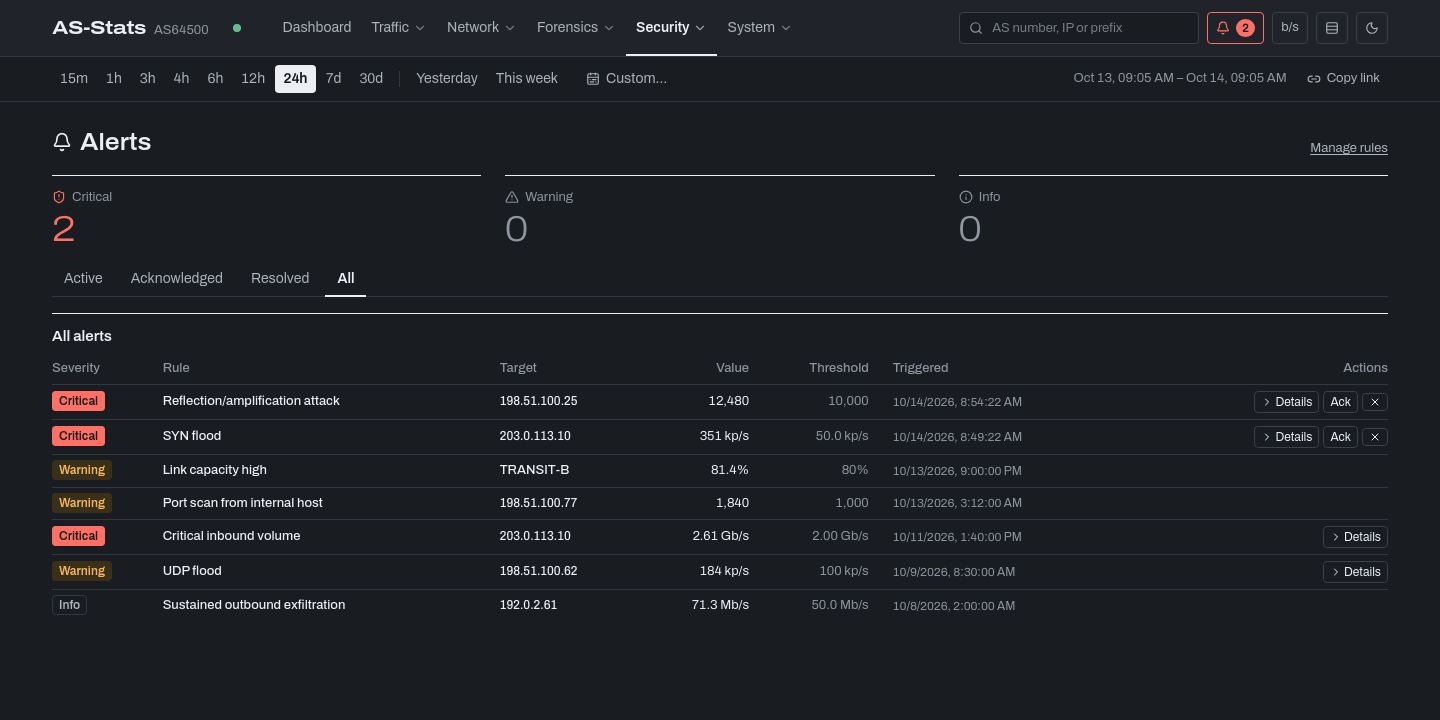
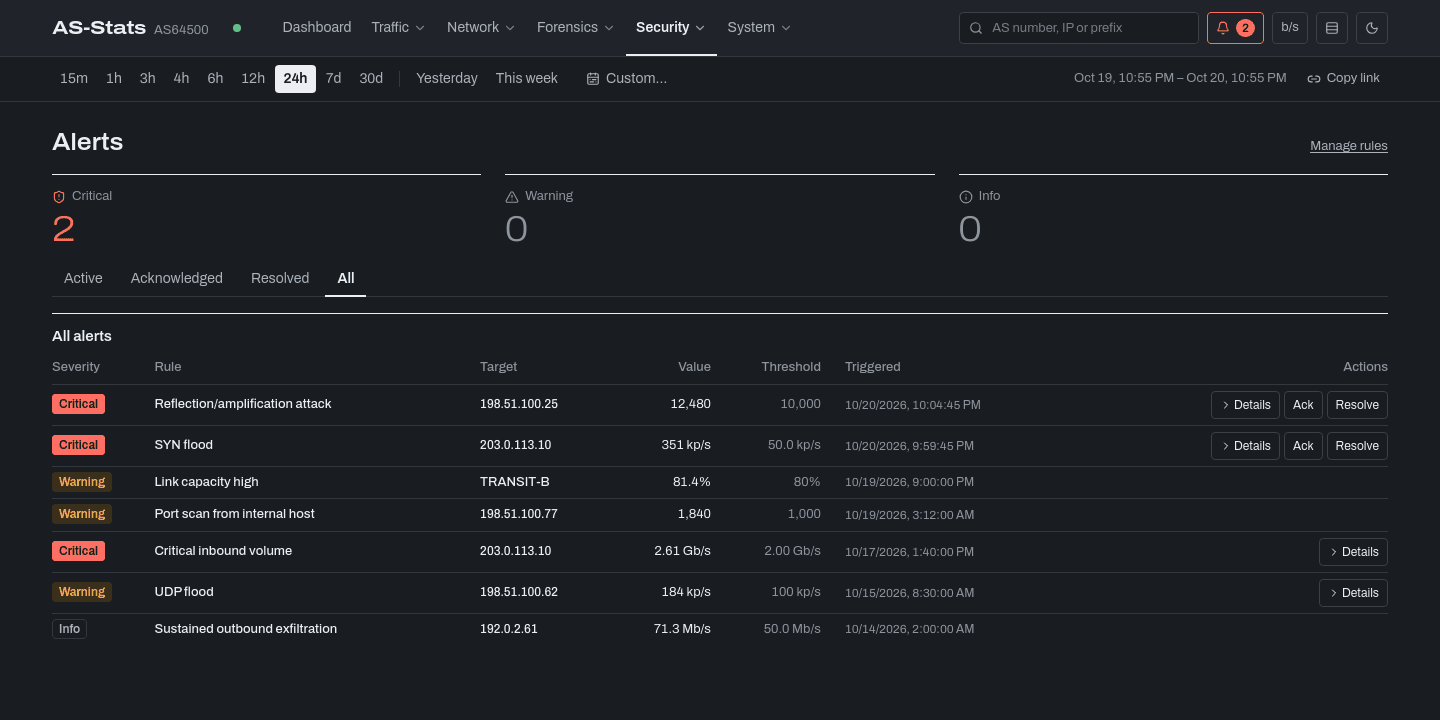
docs: impeccable design review report; refresh README screenshots
docs/design-review/impeccable-2026-10.md records the impeccable 4.7.0
pass over the web UI: the method (demo stack 3.4.0, detector on rendered
pages in light and dark at 1440 and 390 px, 98 findings before, 0 after),
the audit and critique findings ranked by severity with what was done
about each, what was deliberately left alone, where impeccable and the
Ledger direction disagree, and proposed additions to the Ledger guide.

The README screenshots are regenerated from the same invented demo data
with scripts/demo/shot.js (segmented controls, alert actions, chart
labels, link detail changed visibly) and compressed with pngquant and
oxipng.

Claude-Session: https://claude.ai/code/session_01JMwSDERtkGKrYAcoAfT5Bp

diff --git a/docs/design-review/impeccable-2026-10.md b/docs/design-review/impeccable-2026-10.md
@@ -1,0 +1,223 @@
+# Design review: impeccable 4.7.0, October 2026
+
+A quality pass on the web UI with the [impeccable](https://github.com/pbakaus/impeccable)
+toolkit (v4.7.0). We followed its `audit`, `critique` and `polish` procedures over
+the whole product, plus `harden` and `adapt` where the findings called for them.
+The baseline is release 3.4.0.
+
+The "Ledger" direction was the brief (Archivo, ink on grey, one cobalt accent,
+rules instead of boxes, colour only for abnormal states). Impeccable was used to
+check quality, accessibility and consistency within that direction, not to
+change the aesthetic. Section 6 lists where impeccable's taste and Ledger
+disagree and what we did.
+
+## 1. Method
+
+- **Data.** The demo stack in `scripts/demo/` ran with tag `3.4.0`, using its
+  invented data (AS64500, documentation prefixes). For the "after" state, the
+  branch's frontend was built in `node:22-alpine` and served by `nginx:1.27-alpine`
+  with `frontend/nginx.conf`, against the same demo API.
+- **Pages.** All 21 routes were captured as full-page screenshots in light and
+  dark, at 1440 px and 390 px (84 captures before, 84 after). A small DOM audit
+  ran on each capture: text under 12 px, unnamed controls, targets under 24 px,
+  heading jumps, horizontal overflow, console errors.
+- **Detector.** `npx impeccable@4.7.0 detect --json` ran in
+  `zenika/alpine-chrome:with-puppeteer` with `DO_NOT_TRACK=1` and
+  `IMPECCABLE_NO_TELEMETRY=1`. Chromium was wrapped to add `--no-sandbox`, which
+  the container needs.
+  - Light passes used URL scans with `--viewport 1440x1000` and `390x844`.
+  - Dark passes opened each page in a Chromium we control, with the theme set
+    before first render, then attached the detector with `--cdp`. The detector
+    itself has no colour-scheme option.
+  - A static scan of `frontend/src` had already returned nothing; the useful
+    rules only run on rendered pages.
+- **What was not run.** `impeccable install`, the skill launcher (`context`,
+  `critique-storage`) and the live overlay were not run. Nothing under
+  `.impeccable/` was written.
+- **Critique isolation.** Assessment A (design review) ran in an isolated
+  sub-agent that never saw detector output. Assessment B (detector and browser
+  evidence) ran in the parent context, not in a second sub-agent, so the run is
+  partly degraded by impeccable's own rules. The critique's closing questions
+  were skipped: this was an autonomous run with the full scope delegated.
+
+## 2. Detector results
+
+### Counts
+
+| Pass | Before (3.4.0) | After |
+|---|---:|---:|
+| Light, 1440 px | 24 | 0 |
+| Light, 390 px | 29 | 0 |
+| Dark, 1440 px | 20 | 0 |
+| Dark, 390 px | 25 | 0 |
+| **Total** | **98** | **0** |
+
+### By rule
+
+| Rule | Severity | Pages (before) | Count before | After | What we did |
+|---|---|---|---:|---:|---|
+| `skipped-heading` | warning | 19 of 21: every page but Home and Live threats (h1 then h3) | 76 (19 × 4 passes) | 0 | Fixed. `CardTitle` renders an `h2` (`as="h3"` when nested). The stacked-chart titles on Links, AS detail and Link detail became `h2`. |
+| `low-contrast` | warning | Changes: the "(+12 %)" note, `opacity-70`, 3.5:1 | 2 (light passes) | 0 | Fixed: tertiary ink, no opacity. |
+| `low-contrast` | advisory | AS detail, Link detail ("Compare previous"); Flow search (Period buttons): tertiary ink on `bg-muted/50`, 4.4:1 | 6 (light passes) | 0 | Fixed. The shared segmented control and the toggle now use secondary ink. |
+| `line-length` | warning | Live threats intro, about 103 characters per line | 2 (1440 passes) | 0 | Fixed: capped at 62ch. |
+| `straggler` | advisory | 390 px: Home, Capacity, Link detail captions; Live threats (3) | 12 (390 passes) | 0 | Fixed globally: `p { text-wrap: pretty }`, headings `balance`. |
+
+## 3. Audit (technical) and critique (design)
+
+### Audit health score (impeccable `audit`)
+
+| # | Dimension | Before | After | Key finding |
+|---|---|---:|---:|---|
+| 1 | Accessibility | 2 | 3 | Sort headers not keyboard-reachable; `role="menu"` without arrow keys; h1→h3 everywhere; icon-only "×" Resolve; 3.5:1 text |
+| 2 | Performance | 3 | 3 | One 500 kB+ JS chunk (Vite warning); otherwise lean, no animation cost |
+| 3 | Theming | 3 | 4 | Tokens used throughout; a few opacity-dimmed texts and tinted-fill controls fell below AA |
+| 4 | Responsive | 2 | 3 | Alerts actions clipped at 390 px; active time range scrolled out of view; 18 px page overflow on Top protocols; values wrapped away from units |
+| 5 | Implementation integrity | 3 | 3 | Nine hand-rolled segmented controls in three styles; feature pages 404 when the flag is off |
+| | **Total** | **13/20** (acceptable) | **16/20** (good) | |
+
+### Critique (impeccable `critique`, Assessment A)
+
+**Specificity.** Assessment A called the design specific to this product and
+not generic. Home ("Right now", the mirrored one-scale chart, link rows with a
+peak tick and a 70 % line, "AS64500 is your network… so it is not ranked") and
+Live threats are product-specific. The secondary pages drift toward a generic
+analytics kit: Treemap and Donut, emoji flags, boxed chips, rainbow stacks.
+
+**Nielsen heuristics.** Assessment A scored 25/36 with #9 left n/a, because no
+error state was captured. The detector-side evidence did capture error states:
+BGP's three raw "Not Found" panels, and bare red text with no retry on the
+detail pages. On that evidence #9 scores 2, which makes the total 27/40,
+"acceptable".
+
+| # | Heuristic | Score | Key issue |
+|---|---|---:|---|
+| 1 | Visibility of system status | 3 | Active time range hidden at 390 px |
+| 2 | Match with the real world | 3 | Mixed units: "10000 Mbps", "10,000 Mbps", "10 Gb/s" |
+| 3 | User control and freedom | 3 | Unlabeled one-click Resolve "×" |
+| 4 | Consistency and standards | 2 | Three segmented-control styles; Title Case vs sentence case; icons in only three h1s; duplicate period pickers |
+| 5 | Error prevention | 2 | Icon-only destructive buttons. Link delete does ask for confirmation. |
+| 6 | Recognition rather than recall | 3 | No incident context on IP detail; ⌘K palette not advertised |
+| 7 | Flexibility and efficiency | 3 | No bulk ack/resolve |
+| 8 | Aesthetic and minimalist design | 3 | Home is exemplary; secondary pages are noisier |
+| 9 | Error recovery | 2 | Raw "Not Found" on BGP; bare error text on detail pages |
+| 10 | Help and documentation | 3 | Good inline captions; no glossary for "Class" |
+
+**Cognitive load.** 4 of 8 checks failed:
+
+- Minimal choices: the time bar has 11 options, Admin has 8 tabs, Top AS shows 3 control groups.
+- One thing at a time: two or three time selectors on detail pages.
+- Grouping: Links mixes viewing with configuration.
+- Working memory: link names differ between pages; categorical colours must be
+  matched against a legend.
+
+### Findings ranked by severity
+
+| Sev. | Finding | Source | Status |
+|---|---|---|---|
+| P1 | Sortable table headers were `<th onClick>` with no button or tabindex, so sorting was mouse-only (`DataTable`, used on about 15 tables). | audit | **Fixed**: a `<button>` in the `<th>`, with `aria-sort` kept. |
+| P1 | Alerts at 390 px clipped the Actions column ("Ac…"); on-call staff could not ack or resolve from a phone. | DOM audit + critique | **Fixed**: the target sits under the rule name; actions wrap. |
+| P1 | Resolve was an icon-only "×" in a 26×18 button, with `aria-label` on the svg, placed next to Ack. | critique | **Fixed**: a "Resolve" text button; row actions are 28 px. |
+| P1 | The incident context was lost on drill-down. IP detail for 203.0.113.10, a SYN-flood target, said nothing about the attack. | critique | **Fixed**: `HostAlerts` line on IP detail, in the dashboard's words and colours. Silent when the host is quiet. |
+| P1 | At 390 px the active time preset (24h by default) was scrolled out of view, with no scrollbar. | critique + screenshots | **Fixed**: the active preset is scrolled into view. The Custom popover no longer overflows a phone. |
+| P1 | Headings jumped from h1 to h3 on 19 pages. | detector | **Fixed** (see section 2). |
+| P1 | Feature-gated pages reached by URL with the flag off: `/bgp` showed three "Failed to load … Not Found" panels, a live "Block IP" button and six console 404s. | DOM audit (console) | **Fixed**: `FeatureGate` route wrapper explains which setting enables the page. |
+| P2 | Nav dropdowns used `role="menu"`/`menuitem` with no arrow-key support; focus could leave an open menu; Escape did not return focus. | audit | **Fixed**: disclosure pattern with `aria-controls`; closes on focus-out; Escape refocuses the trigger. |
+| P2 | Nine segmented controls in three styles. Four had no `aria-pressed`, so state was conveyed by colour only. Inactive labels were 4.4:1. View-toggle buttons were 28×16 on phones. | critique + detector | **Fixed**: one `Segmented` component (Ledger spec). |
+| P2 | p95 and capacity labels were drawn over the filled series and unreadable (AS detail, Link detail). The lowest y tick touched the first time label on every mirrored chart. | critique + screenshots | **Fixed**: ink labels with a background halo; 8 px between the plot and the time axis. |
+| P2 | AS, IP and Link detail showed "Loading…" as text and errors as bare red text, with no retry. | audit | **Fixed**: `PageSkeleton` and `ErrorDisplay` (names what failed, offers Retry). |
+| P2 | A second 1h/6h/24h/7d picker on AS and IP detail duplicated the global time bar; both wrote the same filter. | critique | **Fixed**: removed. |
+| P2 | Link detail coloured p95 utilisation amber or red with no word (Ledger: never colour alone). | screenshots | **Fixed**: `utilLevel` thresholds plus a "Watch"/"Incident" badge. |
+| P2 | Numbers wrapped away from their unit on phones ("2.26 / Gb/s"); Top protocols overflowed 390 px by 18 px (header row did not wrap). | DOM audit | **Fixed**: numeric cells `nowrap`, percent bar hidden below `sm`, page header rows wrap. |
+| P2 | Icon-only Admin and Links buttons were about 20 px; checkboxes 14 px; Countries chart labels 11 px (Ledger floor is 12). | DOM audit | **Fixed**: 28 px buttons, 16 px checkboxes, 12 px labels. |
+| P3 | Capacity units differed ("10000 Mbps", "10,000 Mbps", "1,000 Mb/s", "10 Gb/s"). | critique | **Fixed**: `formatCapacity` everywhere. |
+| P3 | Title Case outliers ("Top Communicating IPs", "Link Configuration", "Top Prefixes", "Flow Search", "BGP Blocks"…); icons in only three h1s. | critique | **Fixed**: sentence case; h1 icons removed. |
+| P3 | Text selection used the browser default. | polish (craft floor) | **Fixed**: cobalt `::selection`. |
+
+## 4. What changed (commits)
+
+1. `fix(a11y)`: keyboard sorting, nav disclosure, heading outline, target sizes.
+2. `refactor(ui)`: one segmented control for every pick-one switch (`components/ui/segmented.tsx`).
+3. `fix(ui)`: feature pages explain why they are empty instead of showing 404s (`components/FeatureGate.tsx`).
+4. `fix(responsive)`: the active window and the alert actions stay visible on a phone.
+5. `fix(charts)`: legible p95 and capacity labels; no axis-label collisions; `text-wrap`.
+6. `feat(detail)`: incident context on IP detail (`components/HostAlerts.tsx`); consistent loading and error states; duplicate pickers removed.
+7. `fix(a11y)`: chart titles in the heading outline; AA text on tinted controls (from the detector re-run).
+8. `fix(link)`: utilisation state named, not only coloured.
+9. `docs`: this report and refreshed README screenshots.
+
+No token value changed. Two shared helpers were added: `annotationLabel` and
+`X_TICK_MARGIN` in `hooks/useChartColors.ts`.
+
+## 5. Deliberately not changed
+
+| Finding | Why it stays |
+|---|---|
+| Rainbow categorical stacks on Links, AS detail and Link detail, and IPv4/IPv6 charts side by side (critique P2) | This is a change of design language, not a defect. Ledger gives no breakdown pattern for "which link carries it" (see section 6), so the owner should decide. |
+| Emoji flags on Top AS and Countries | Impeccable bans emoji used as icons. These flags are country data, the alpha-2 code sits next to them, and they render at 12 px or more. An ISO-code-only variant is an option for the owner. |
+| Table / Treemap / Donut view toggle | It is a feature. It is now a proper segmented control. |
+| Touch targets below 44 px | WCAG 2.2 AA (2.5.8) asks for 24 px. Controls are now at least 28 px and row links are full-width table cells. 44 px is AAA or platform guidance and would cost the density Ledger asks for. |
+| Global `prefers-reduced-motion` kill (impeccable flags blanket kills) | The UI's only motion is 100–150 ms colour transitions on controls; nothing is lost by cutting them. |
+| Global time bar shown on pages it does not affect (Admin, Alerts) | This needs per-route layout configuration. It is not a defect in rendering. |
+| Flow search keeps its own Period selector | It is form state, applied on Search, with a capped set of windows. It is not a duplicate of the global filter. It now uses the shared segmented control. |
+| Bulk ack/resolve, a visible ⌘K hint, glossary for "Class" | These are feature work beyond a quality pass. |
+| One JS chunk over 500 kB | Code splitting is a separate performance task. |
+| Admin tab size, Alerts zero-count KPIs, the Capacity "—" for "no forecast", the cobalt heatmap ramp | Minor and taste-level; listed for the owner. |
+| Critique note "Further analysis titles look like links but are plain text" | False positive: they are links (`FurtherAnalysis.tsx`), underlined in `decoration-border`. |
+
+Observed but not investigated: on the demo stack, Top protocols shows identical
+inbound and outbound figures. This is probably a property of the seeded data,
+not of the UI.
+
+## 6. Where impeccable and Ledger disagree
+
+| Impeccable says | Ledger says | Decision |
+|---|---|---|
+| A breakdown by link or AS needs distinct series colours; it showed 5–10 hues. | Colour is reserved; amber and red mean states. | Kept as is (section 5). Ledger needs a sanctioned breakdown pattern. |
+| 44 px touch targets | Dense tables and 4 px-radius controls | Ledger kept, with WCAG AA 24 px met (28 px controls). |
+| A blanket reduced-motion override can destroy feedback. | No motion except control state. | Ledger kept: there is no feedback motion to lose. |
+| "Normal stays silent" can starve Status of positive confirmation (critique). | The normal state has no colour and no badge. | Kept. A worded "All clear" line would satisfy both (proposal 8 below). |
+
+## 7. Proposed changes to the Ledger design guide
+
+These are not applied, because the guide lives outside this repository.
+
+1. **Segmented control, exact recipe.**
+   - Track: `bg-muted` with a 1 px `border-input`.
+   - Active segment: `bg-card`, `ring-1 ring-border`, ink, 600 weight.
+   - Inactive segments: **secondary** ink. Tertiary ink on the track is 4.4:1 in light mode and fails AA.
+   - Size: 28 px tall; `aria-pressed` and a group label are required.
+2. **Chart annotations.** Draw the label in ink with a page-background halo
+   (`paint-order: stroke`, 3 px), not tertiary ink over the data. Keep 8 px
+   between the plot and the time axis so the lowest negative tick of a mirrored
+   chart never touches the first time label.
+3. **Heading outline.** A section or card title is `h2` under the page `h1`; a
+   chart title inside a section is `h3`.
+4. **Tables at phone width.** Numeric cells never wrap. Decorative bars
+   (percent bars) drop below `sm`. A row that cannot fit becomes a two-line
+   record (identity on line 1, values and actions on line 2), as Live threats
+   and Alerts now do.
+5. **Minimum targets.** Controls at least 28 px; icon-only buttons 28 × 28 with
+   the name on the button, not the icon; checkboxes 16 px.
+6. **A state is never colour alone**, including inline values. A percentage
+   coloured amber or red carries the "Watch" or "Incident" badge.
+7. **Disabled features.** A page whose feature is off keeps its title and says
+   which setting enables it. It never shows raw API errors.
+8. **Positive confirmation where it is the question.** On a status page, one
+   worded "All clear" line is allowed. Silence is right for the dashboard, not
+   for the page whose purpose is to confirm health.
+9. **Breakdown pattern.** Needed: per-link or per-AS stacks in greys with the
+   hovered or selected series in cobalt, or small multiples in ink. Either
+   replaces the current 8-hue ordinal palette in stacks.
+10. **Cobalt does two jobs** (link text and the outbound series), so a cobalt
+    number in a table reads as clickable. Either keep links in ink with an
+    underline, or state that numbers are never links.
+11. **Typography.** Captions use `text-wrap: pretty` and headings `balance`;
+    `::selection` takes the accent.
+
+## 8. Evidence
+
+The screenshots (before and after: 21 pages × light/dark × 1440/390), the DOM
+audit JSON and the raw detector JSON were kept outside the repository, in the
+session's scratch directory. The README screenshots in `docs/screenshots/` were
+regenerated from the same invented data with `scripts/demo/shot.js` and
+compressed with pngquant and oxipng.
